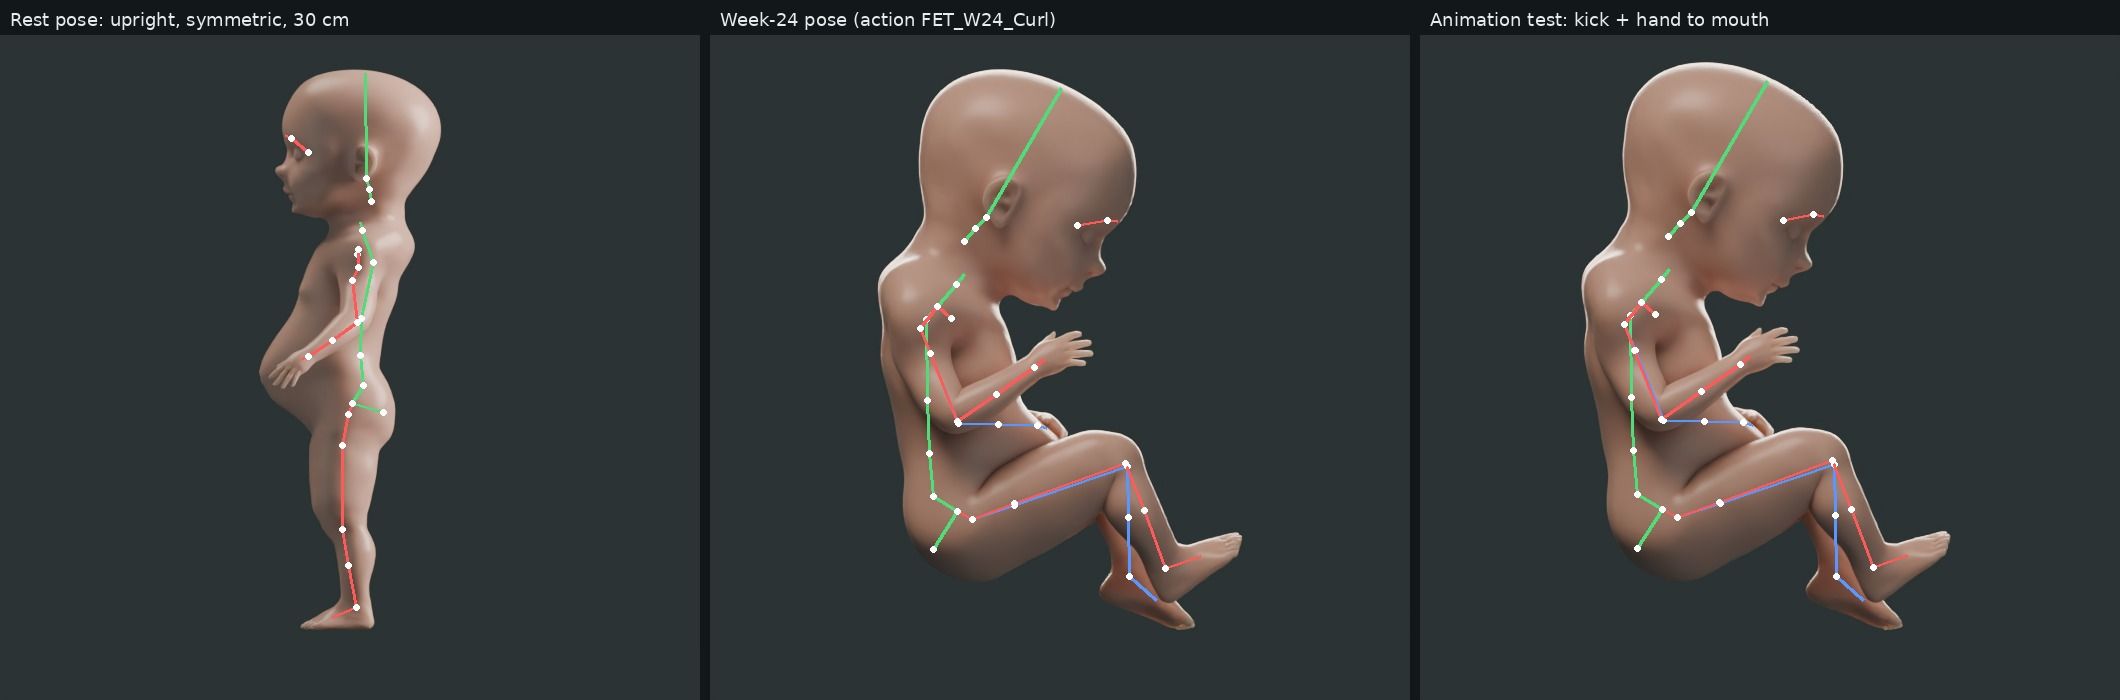
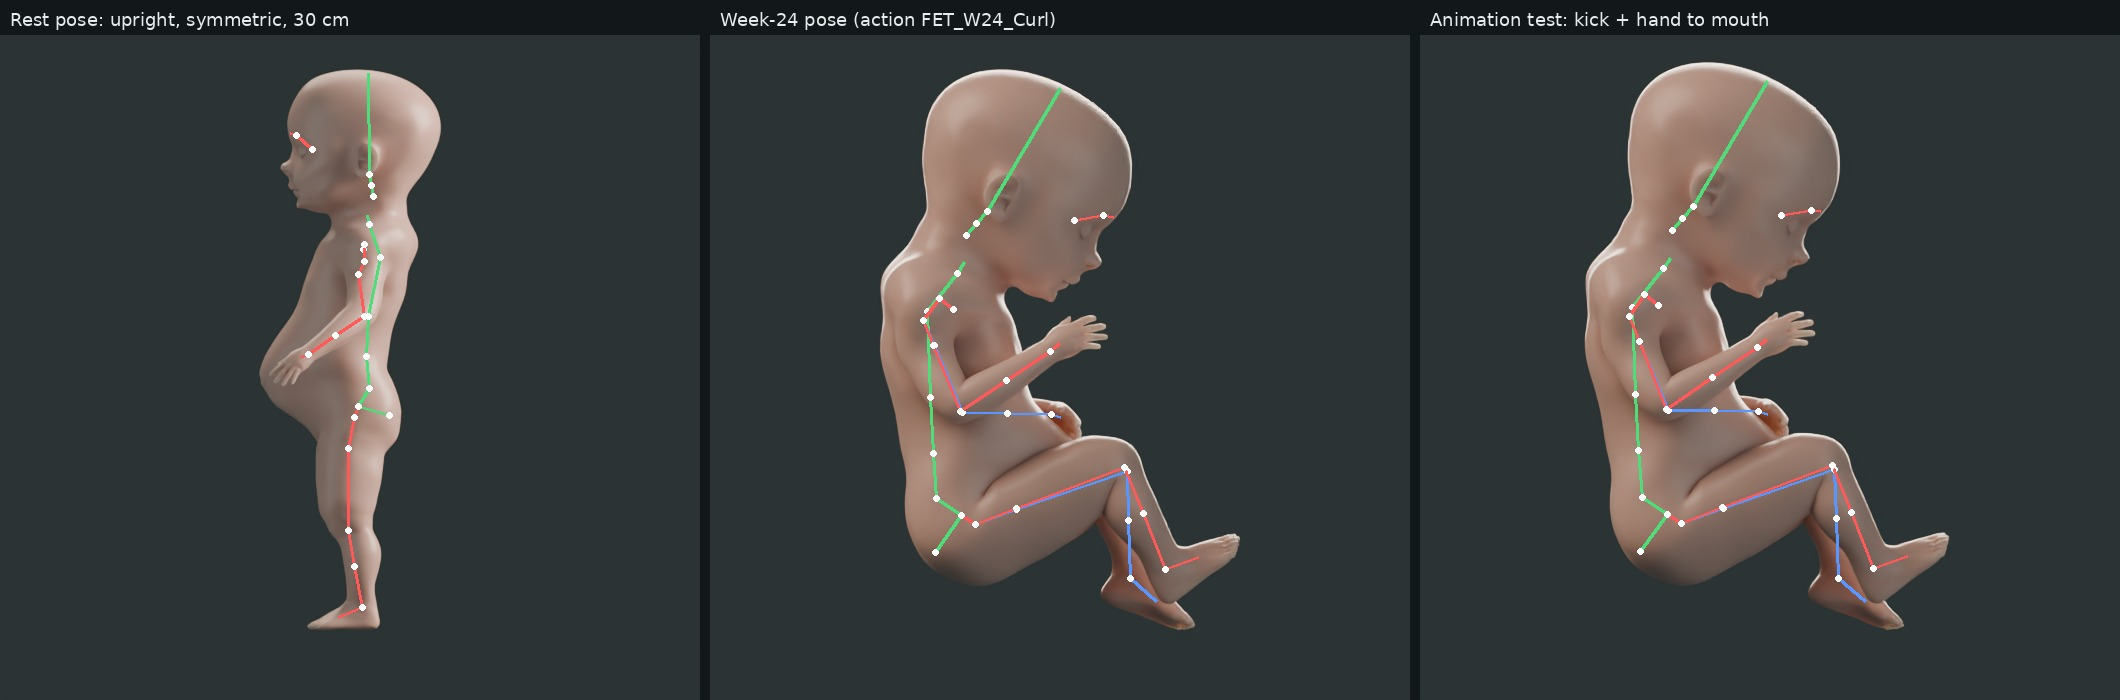
Fetal Growth Explorer: body fills the reference outline
- Bug: folding the solved head size into the rest shape scales about a pivot
  under the chin, which moved the head ~40 px down. The pose is now
  re-solved (head size locked) after the fold-in.
- Trunk segments 5-8 % longer and fuller (bone-local bake): the reference
  trunk is bigger relative to the head.
- Near wrist/hand landmarks moved up and forward to the reference hand.
- render_stages writes outline_W24.jpg: the render with the reference
  outline drawn on top.

Claude-Session: https://claude.ai/code/session_012GPESLoAzkgxi7MKnnsx3V

diff --git a/fetal-growth-explorer/blender/scripts/fge/mhbody.py b/fetal-growth-explorer/blender/scripts/fge/mhbody.py
@@ -53,6 +53,7 @@ SHAPE_TARGETS = {
     "head/head-back-scale-depth-incr.target.gz": 0.4,  # the occiput bulges behind the neck
 }
 HEAD_SCALE = 1.45
+TRUNK_SCALE = (1.05, 1.08, 1.08)  # lateral, along the spine, depth (bone frame)
 HEAD_DROP = 0.06
 FIT_SIZE = (279, 500)
 REF_FRAME = (1116, 2000)
@@ -101,6 +102,8 @@ def _proportions(rig) -> dict:
         for side in ("R", "L"):
             for part in ("01", "02"):
                 eff[f"{bone}{part}.{side}"] = (1.0, r, 1.0)
+    for b in ("spine05", "spine04", "spine03", "spine02", "spine01"):
+        eff[b] = TRUNK_SCALE  # the reference trunk is longer and fuller relative to the head
     return eff
 
 
@@ -168,6 +171,9 @@ class _Poser:
         return c[0], c[1], math.sqrt(c[2] + c[0] ** 2 + c[1] ** 2)
 
     def loss(self, x):
+        return self.loss_full(x, PRIOR)
+
+    def loss_full(self, x, prior):
         self.pose(x)
         V = self.rig.verts()
         m = gaussian_filter(mhfit.splat(V[self.body_verts], FIT_SIZE, 1).astype(float), 2.0)
@@ -178,11 +184,30 @@ class _Poser:
         idx = list(FACE_POINTS)
         uv, _ = project_points(V[idx], HERO, REF_FRAME)
         face = np.sum((uv - np.array([FACE_POINTS[i] for i in idx])) ** 2) / rr**2
-        return body + 2.0 * head + 2.0 * face + 0.02 * np.sum(((x - PRIOR) / SIGMA) ** 2)
+        return body + 2.0 * head + 2.0 * face + 0.02 * np.sum(((x - prior) / SIGMA) ** 2)
 
-    def solve(self, max_evals=700):
-        simplex = np.vstack([PRIOR] + [PRIOR + np.eye(len(PRIOR))[i] * SIGMA[i] * 0.6 for i in range(len(PRIOR))])
-        res = minimize(self.loss, PRIOR.copy(), method="Nelder-Mead", options={"xatol": 0.2, "fatol": 1e-4, "maxfev": max_evals, "initial_simplex": simplex})
+    def solve(self, max_evals=700, start=None, lock_head_scale=False):
+        """Nelder-Mead from `start` (default: the prior). With lock_head_scale the
+        head-scale parameter is held at 0 (the head size is already in the rest shape)."""
+        x0 = (PRIOR if start is None else np.asarray(start, float)).copy()
+        free = [i for i in range(len(x0)) if not (lock_head_scale and i == 4)]
+        prior = PRIOR.copy()
+        if lock_head_scale:
+            x0[4] = prior[4] = 0.0
+
+        def full(z):
+            x = x0.copy()
+            x[free] = z
+            return x
+
+        def loss(z):
+            x = full(z)
+            return self.loss_full(x, prior)
+
+        z0 = x0[free]
+        simplex = np.vstack([z0] + [z0 + np.eye(len(z0))[i] * SIGMA[free][i] * 0.6 for i in range(len(z0))])
+        res = minimize(loss, z0, method="Nelder-Mead", options={"xatol": 0.2, "fatol": 1e-4, "maxfev": max_evals, "initial_simplex": simplex})
+        res.x = full(res.x)
         self.pose(res.x)
         V = self.rig.verts()
         cr = np.round(self.cranium(V), 1)
@@ -232,10 +257,11 @@ def build(collection=None, max_evals: int = 700):
     x = _Poser(rig).solve(max_evals)
     # The solve sizes the head with a pose-level scale; an animation rig must
     # not carry scale in its pose, so fold it into the rest shape instead.
-    local, world = rig.local.copy(), rig.world.copy()
+    # Folding it in scales about a pivot below the chin rather than the head
+    # joint, which moves the head, so re-solve with the head size locked.
     mhfit.scale_head(mhfit.Rig(arm, ob), arm, ob, 1.0 + x[4] / 100.0, drop=HEAD_DROP)
-    rig = mhfit.Rig(arm, ob)
-    rig.local, rig.world = local, world
+    rig = mhfit.Rig(arm, ob)  # fresh: world = the rig object's placement, as for the first solve
+    _Poser(rig).solve(max_evals // 2, start=x, lock_head_scale=True)
     mh.clean_weights(ob)  # the head-scale weight hand-over adds memberships
     scalp = _scalp_mask(rig)  # rest frame, before the placement is baked
     rig = mhfit.bake_world(rig, arm, ob)

diff --git a/fetal-growth-explorer/blender/scripts/render_stages.py b/fetal-growth-explorer/blender/scripts/render_stages.py
@@ -1,7 +1,8 @@
 """Render hero stills from fetal_master.blend and finish them (post.py).
 
 Writes renders/render_W{week}.png (1080×1920, finished) and, for the
-look-dev checkpoint, renders/lookdev_W24_vs_reference.jpg.
+look-dev checkpoint, renders/lookdev_W24_vs_reference.jpg and
+renders/outline_W24.jpg (render with the reference outline on top).
 
     python render_stages.py --week 24 --samples 256
 """
@@ -13,7 +14,7 @@ from pathlib import Path
 sys.path.insert(0, str(Path(__file__).resolve().parent))
 
 import bpy  # noqa: E402
-from PIL import Image, ImageDraw, ImageFont  # noqa: E402
+from PIL import Image, ImageDraw, ImageFilter, ImageFont  # noqa: E402
 
 import post  # noqa: E402
 
@@ -21,6 +22,7 @@ ROOT = Path(__file__).resolve().parents[1]
 MASTER = ROOT / "fetal_master.blend"
 RENDERS = ROOT / "renders"
 REFERENCE = ROOT.parent / "reference" / "north-star.webp"
+REFERENCE_MASK = ROOT / "lookdev" / "reference_mask.png"
 
 
 def side_by_side(render_png: Path, out: Path) -> None:
@@ -38,6 +40,18 @@ def side_by_side(render_png: Path, out: Path) -> None:
     draw.text((pad, pad + 10), "Blender / Cycles · week 24", fill=(220, 232, 232), font=font)
     draw.text((ours.width + pad * 2, pad + 10), "North-star reference", fill=(220, 232, 232), font=font)
     sheet.save(out, quality=92)
+
+
+def outline_check(render_png: Path, out: Path) -> None:
+    """The render with the reference fetus outline (fit_reference_mask.py) drawn
+    on top, cropped to the body: a quick read of where the silhouettes differ."""
+    mask = Image.open(REFERENCE_MASK).convert("L")
+    ours = Image.open(render_png).convert("RGB").resize(mask.size, Image.LANCZOS)
+    edge = mask.filter(ImageFilter.FIND_EDGES).point(lambda v: 255 if v > 60 else 0).filter(ImageFilter.MaxFilter(3))
+    ours.paste((255, 40, 40), (0, 0), edge)
+    x0, y0, x1, y1 = mask.getbbox()
+    pad = 60
+    ours.crop((x0 - pad, y0 - pad, x1 + pad, y1 + pad)).save(out, quality=92)
 
 
 def main():
@@ -60,7 +74,8 @@ def main():
     print(f"[fge] wrote {final}")
     if args.week == 24:
         side_by_side(final, RENDERS / "lookdev_W24_vs_reference.jpg")
-        print("[fge] wrote lookdev_W24_vs_reference.jpg")
+        outline_check(final, RENDERS / "outline_W24.jpg")
+        print("[fge] wrote lookdev_W24_vs_reference.jpg, outline_W24.jpg")
 
 
 if __name__ == "__main__":

diff --git a/fetal-growth-explorer/blender/scripts/fge/mhpose.py b/fetal-growth-explorer/blender/scripts/fge/mhpose.py
@@ -22,8 +22,8 @@ J = {
     "skull_base": (-0.016, 0.0, 0.040),
     "shoulder_r": (-0.042, -0.0305, 0.006),
     "elbow_r": (-0.029, -0.0445, -0.0265),
-    "wrist_r": (0.0065, -0.0335, -0.001),
-    "hand_r": (0.0180, -0.0335, 0.0086),  # hand tilted up ~40° toward the chin, as in the reference
+    "wrist_r": (0.0165, -0.0335, 0.004),
+    "hand_r": (0.0280, -0.0335, 0.0136),  # hand tilted up ~40° toward the chin, as in the reference
     "shoulder_l": (-0.0355, 0.027, 0.004),
     "elbow_l": (-0.0215, 0.040, -0.030),
     "wrist_l": (-0.001, 0.025, -0.0305),
